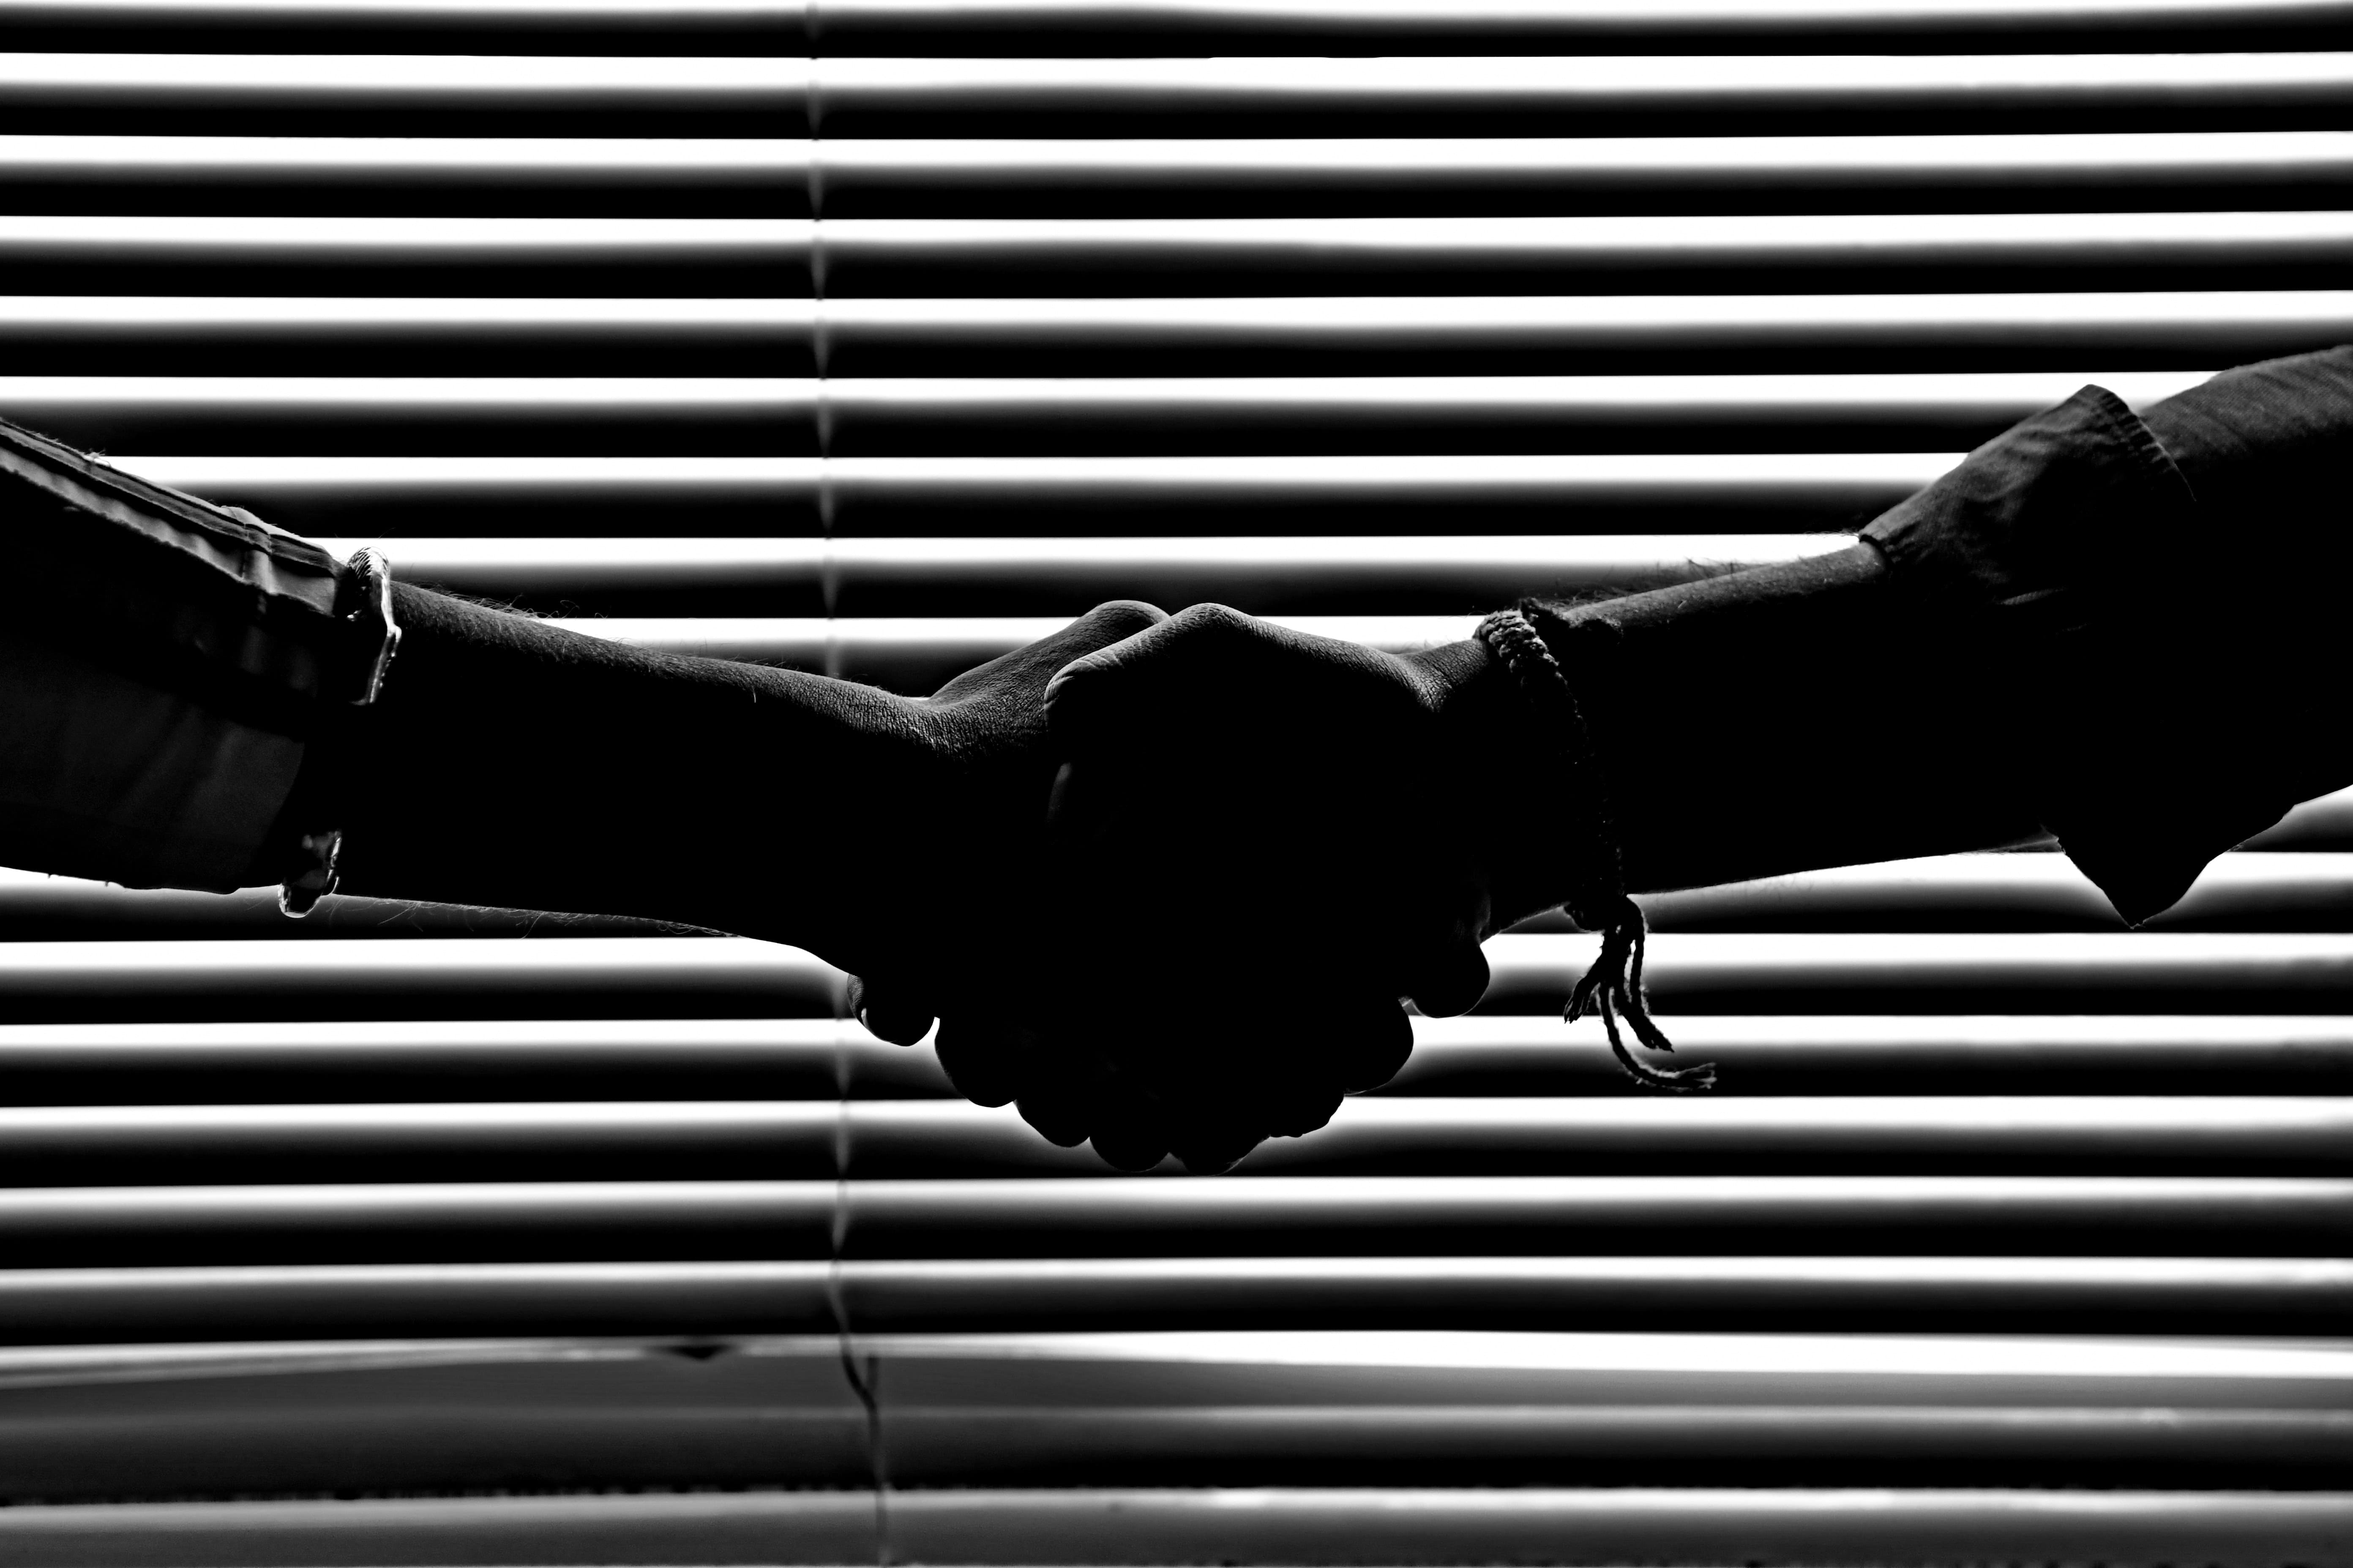
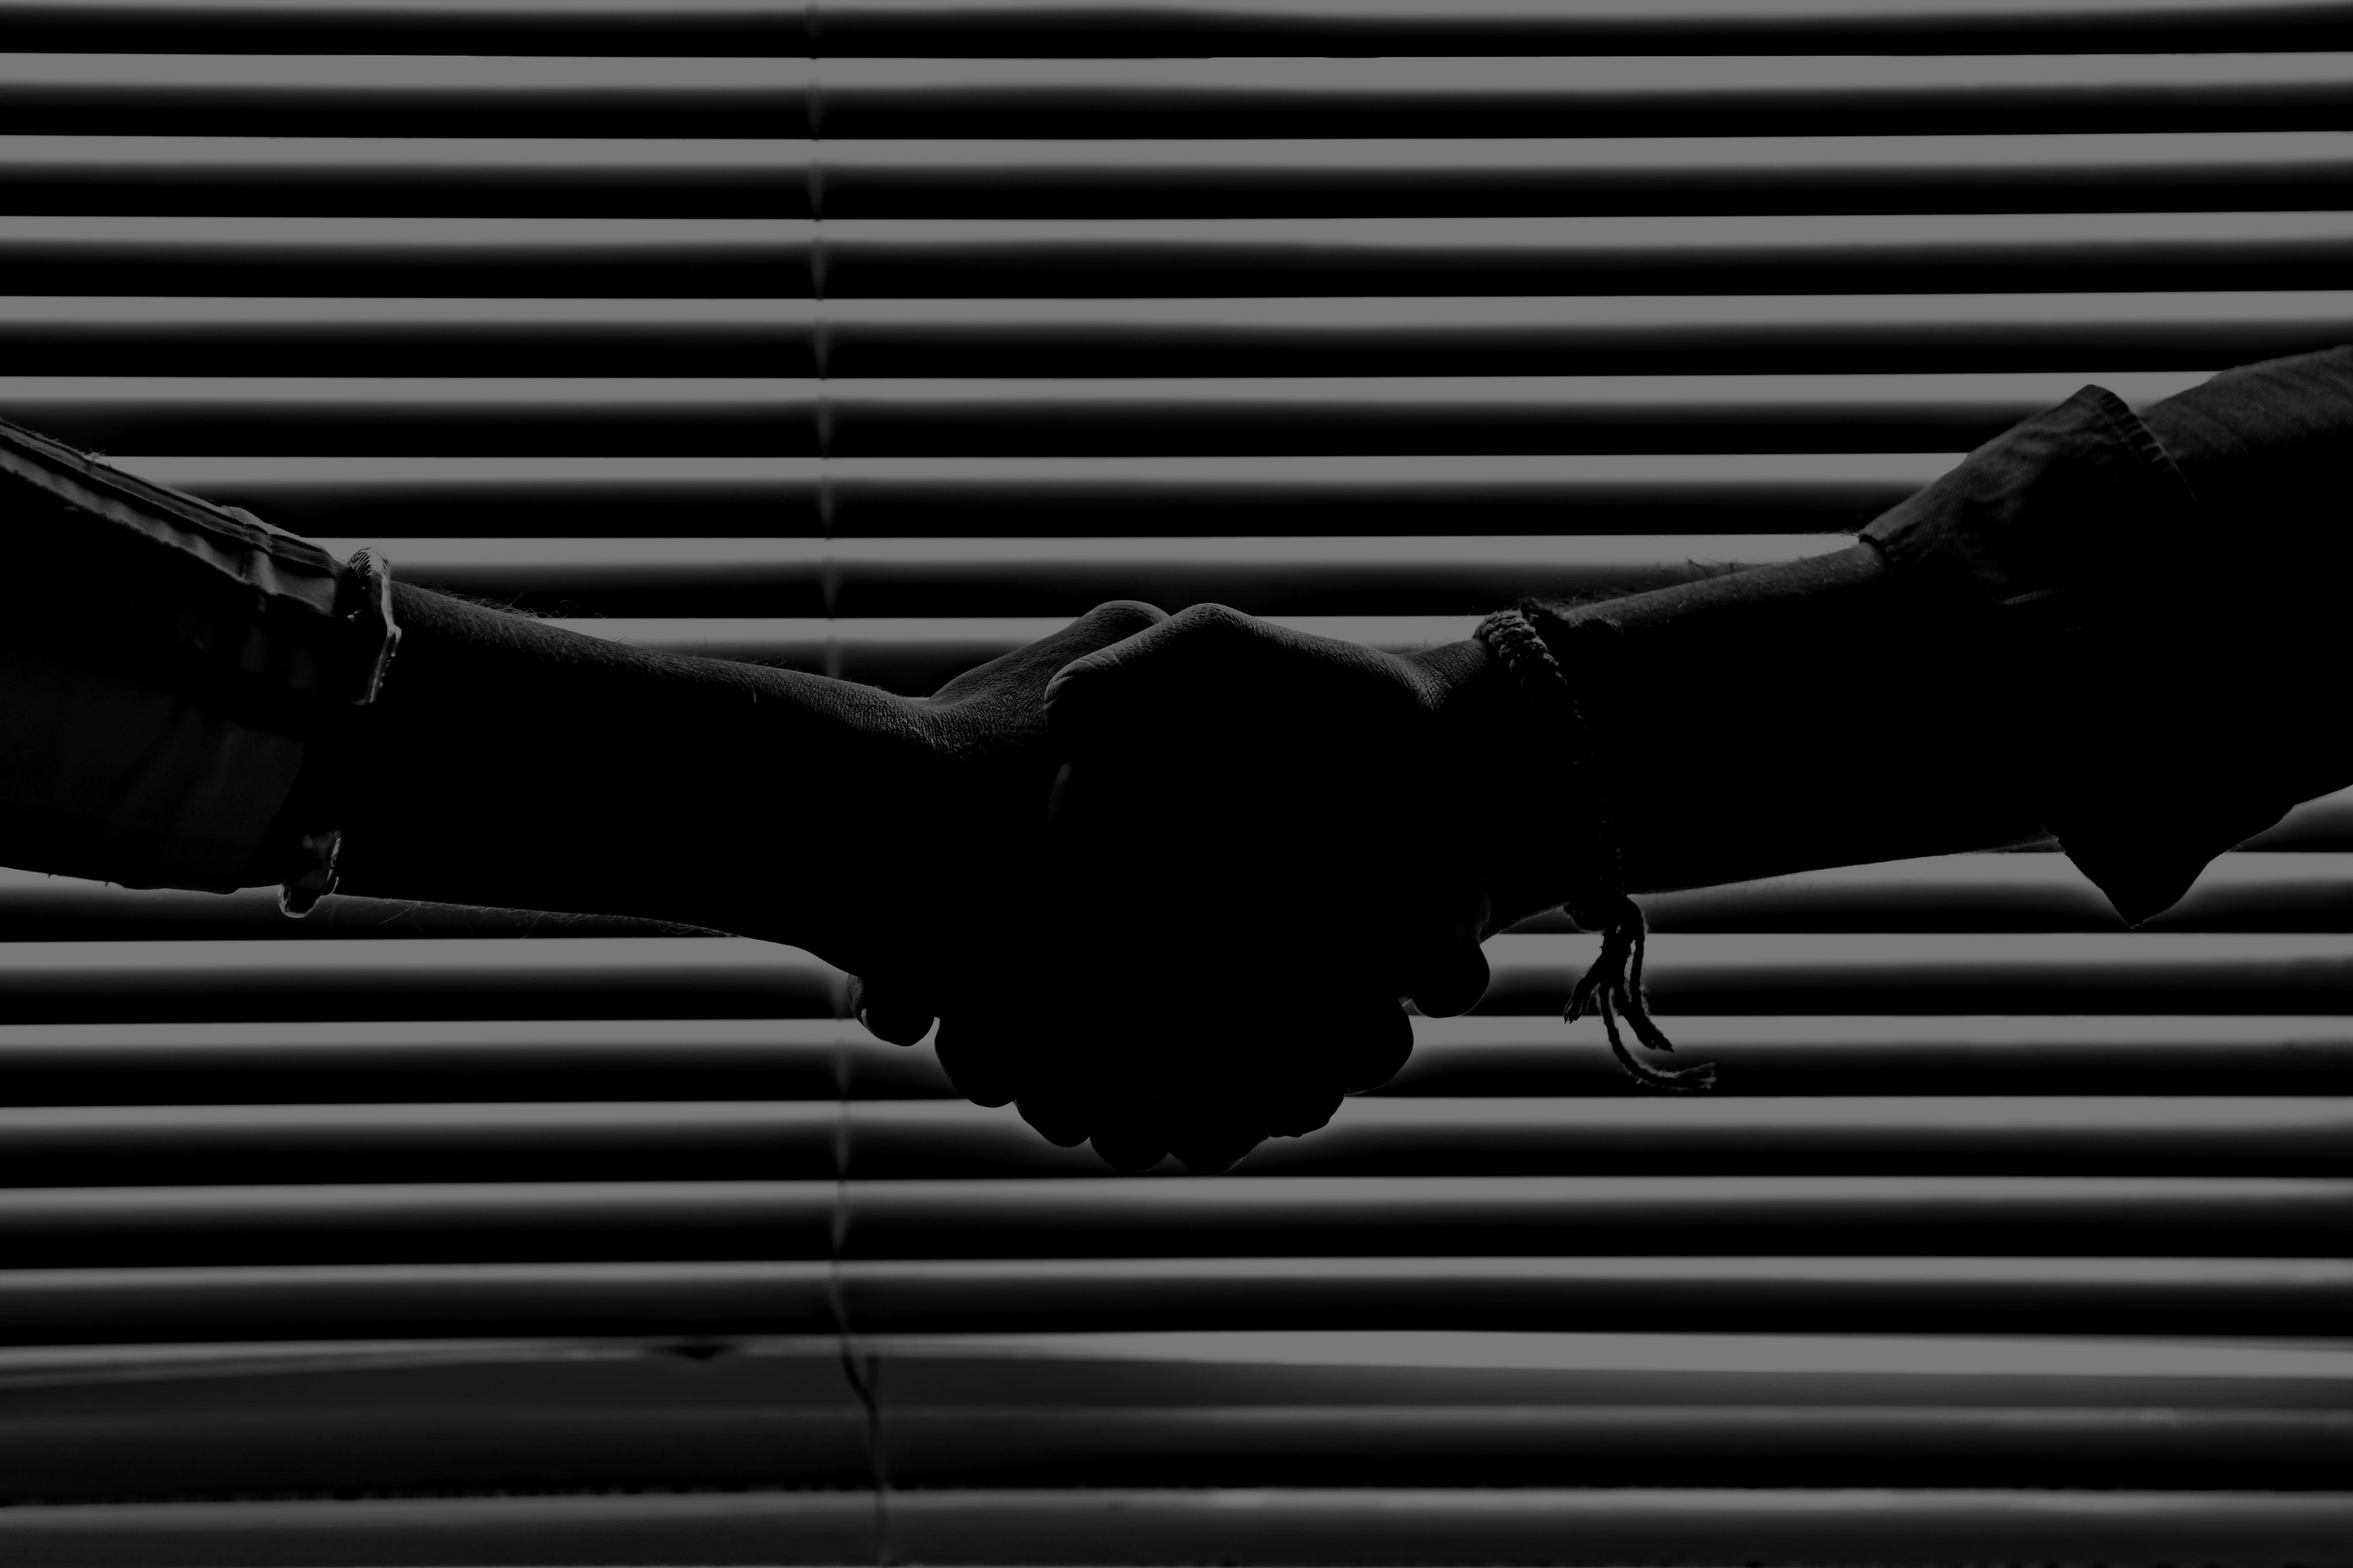
modification des photos du slider sur la page d'accueil

diff --git a/assets/css/home.css b/assets/css/home.css
@@ -1,6 +1,17 @@
 /*
 Hero Slider Area Style
 ======================================================*/
+/* .d-table::before {
+  content: "";
+  position: absolute;
+  top: 0;
+  left: 0;
+  width: 100%;
+  height: 100%;
+  background-color: rgba(0, 0, 0, 0.7);
+  z-index: 1;
+} */
+
 .hero-slider-area {
   position: relative;
 }
@@ -247,28 +258,16 @@ Hero Slider Area Style
 }
 
 .hero-slider-item.bg-1 {
-  background-image: url(../../assets/img/agence.png);
+  background-image: url(../../assets/img/slider-img/agence.webp);
 }
 
 .hero-slider-item.bg-2 {
-  background-image: url(../../assets/img/about-img.jpg);
+  background-image: url(../../assets/img/slider-img/about.webp);
 }
 
 .hero-slider-item.bg-3 {
   background-image: url(../../assets/img/slider-img/slide4.jpg);
 }
-
-/* .hero-slider-item.bg-4 {
-  background-image: url(../../assets/img/slider-img/4.jpg);
-}
-
-.hero-slider-item.bg-5 {
-  background-image: url(../../assets/img/slider-img/5.jpg);
-}
-
-.hero-slider-item.bg-6 {
-  background-image: url(../../assets/img/slider-img/6.jpg);
-} */
 
 .hero-slider-text {
   text-align: center;
@@ -347,20 +346,16 @@ About Area Style
 
 /* About*/
 #comciergerie {
- 
   height: 100vh;
-
 }
 
-#offre{
-  height:100vh;
+#offre {
+  height: 100vh;
 }
 
-#prestations{
-  height:100vh;
+#prestations {
+  height: 100vh;
 }
-
-
 
 /*
   Video Created Area Style
@@ -862,7 +857,6 @@ Partner Area Style
   text-align: center;
 }
 
-
 .blog-area-two .single-blog {
   position: relative;
   z-index: 1;
@@ -1013,11 +1007,9 @@ Partner Area Style
 }
 
 .latest-trailer-content .default-btn {
-margin-left:0px;
+  margin-left: 0px;
 }
 
 .latest-trailer-content .project-btn {
-  margin-bottom:40px;
-  }
-
-  
+  margin-bottom: 40px;
+}
